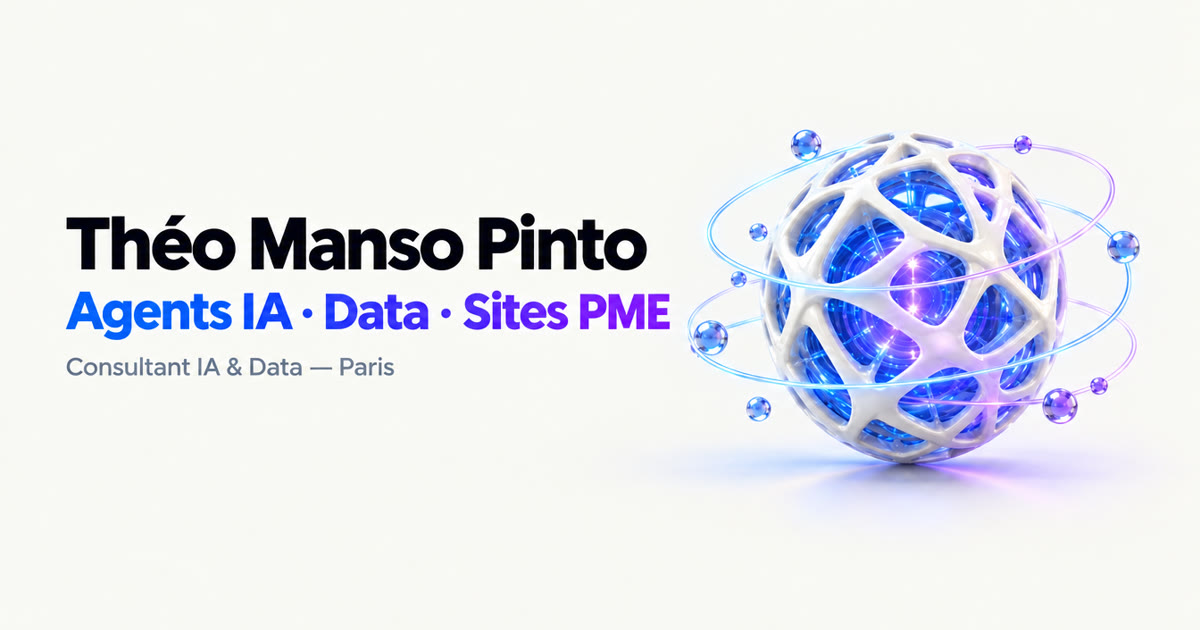
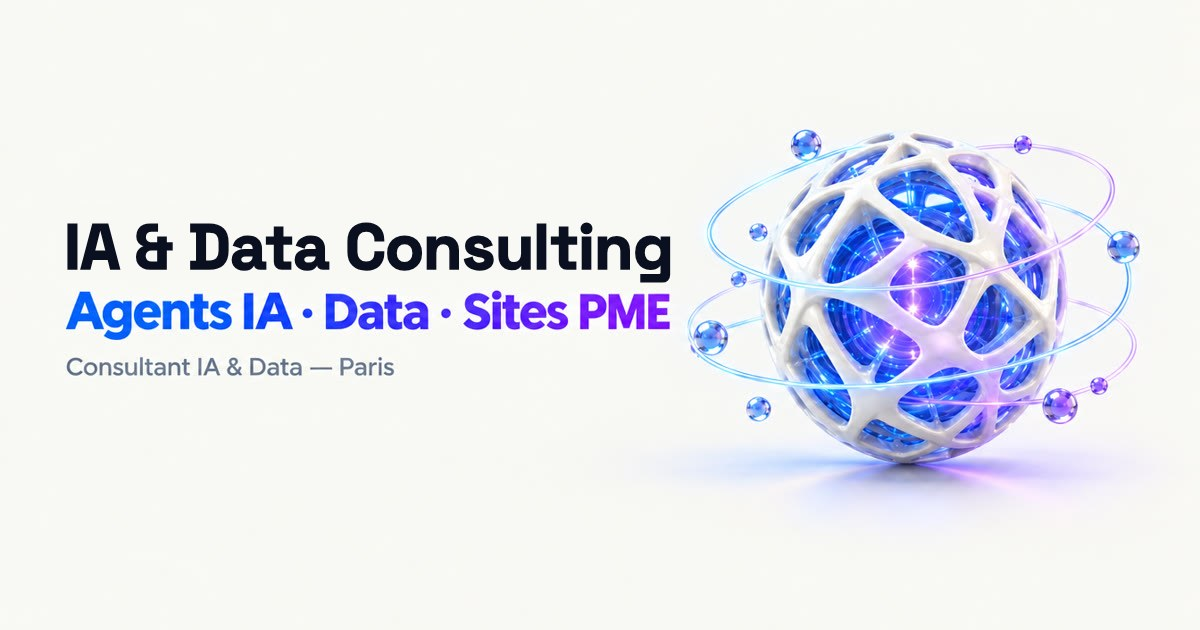
Retirer le nom de l'aperçu de partage (#33)
- Image de partage (og.jpg) : « IA & Data Consulting » à la place du nom
- Titre de l'aperçu, titre de l'onglet et description sans le nom
- og:image versionnée pour forcer le rafraîchissement des aperçus

Claude-Session: https://claude.ai/code/session_01NpCKKy4gMyvnDBB7dBEPTA

diff --git a/site/index.html b/site/index.html
@@ -3,19 +3,19 @@
   <head>
     <meta charset="UTF-8" />
     <meta name="viewport" content="width=device-width, initial-scale=1.0" />
-    <meta name="description" content="Théo Manso Pinto — Consultant IA & Data. Agents IA, pipelines de données, automatisation et sites vitrines PME dès 700 € HT." />
+    <meta name="description" content="Consultant IA & Data. Agents IA, pipelines de données, automatisation et sites vitrines PME dès 700 € HT." />
     <meta name="theme-color" content="#F7F7F4" />
     <meta name="color-scheme" content="light" />
     <meta property="og:type" content="website" />
-    <meta property="og:title" content="Théo Manso Pinto — Agents IA · Data · Sites PME" />
+    <meta property="og:title" content="IA & Data Consulting — Agents IA · Data · Sites PME" />
     <meta property="og:description" content="Consultant IA & Data à Paris. Agents IA en production, pipelines de données, automatisation, et site vitrine PME à 700 € HT." />
     <meta property="og:url" content="%VITE_SITE_URL%/" />
-    <meta property="og:image" content="%VITE_SITE_URL%/og.jpg" />
+    <meta property="og:image" content="%VITE_SITE_URL%/og.jpg?v=2" />
     <meta property="og:image:width" content="1200" />
     <meta property="og:image:height" content="630" />
     <meta name="twitter:card" content="summary_large_image" />
-    <meta name="twitter:image" content="%VITE_SITE_URL%/og.jpg" />
-    <title>Théo Manso Pinto — Consultant IA & Data | Demande de mission</title>
+    <meta name="twitter:image" content="%VITE_SITE_URL%/og.jpg?v=2" />
+    <title>IA & Data Consulting — Sites PME & agents IA</title>
     <script type="module" src="/src/main.ts"></script>
   </head>
   <body>
